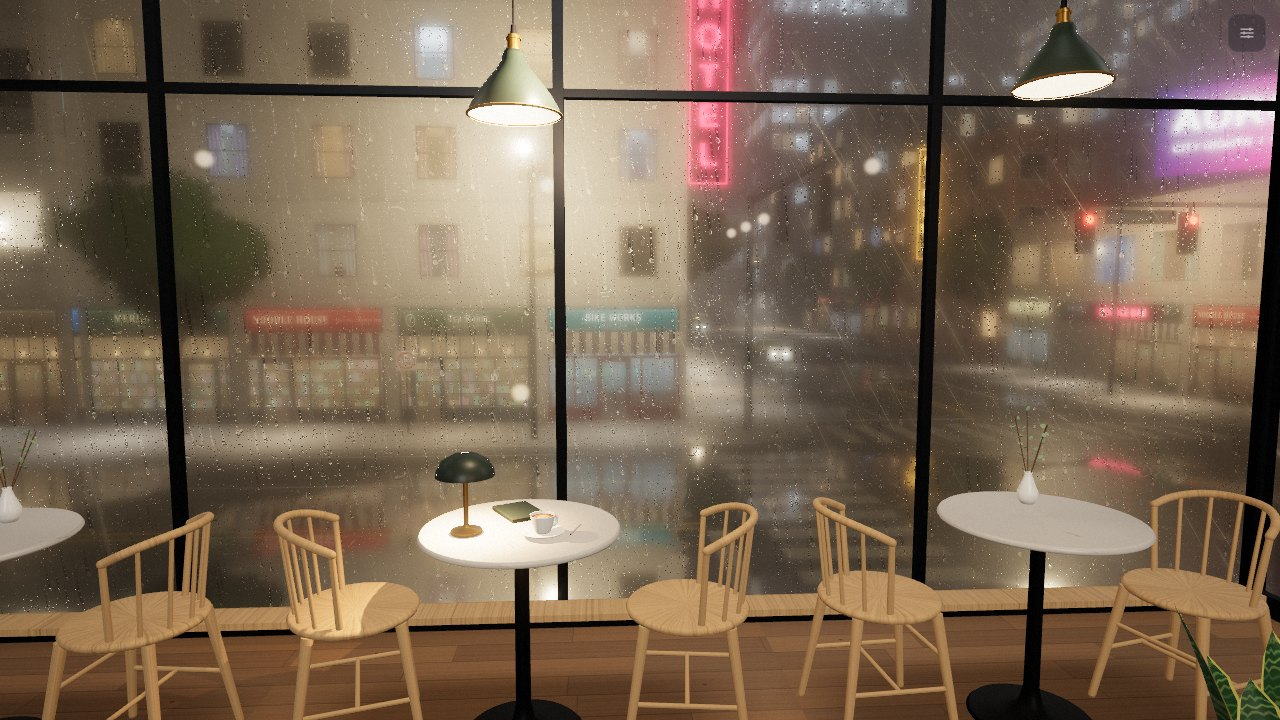
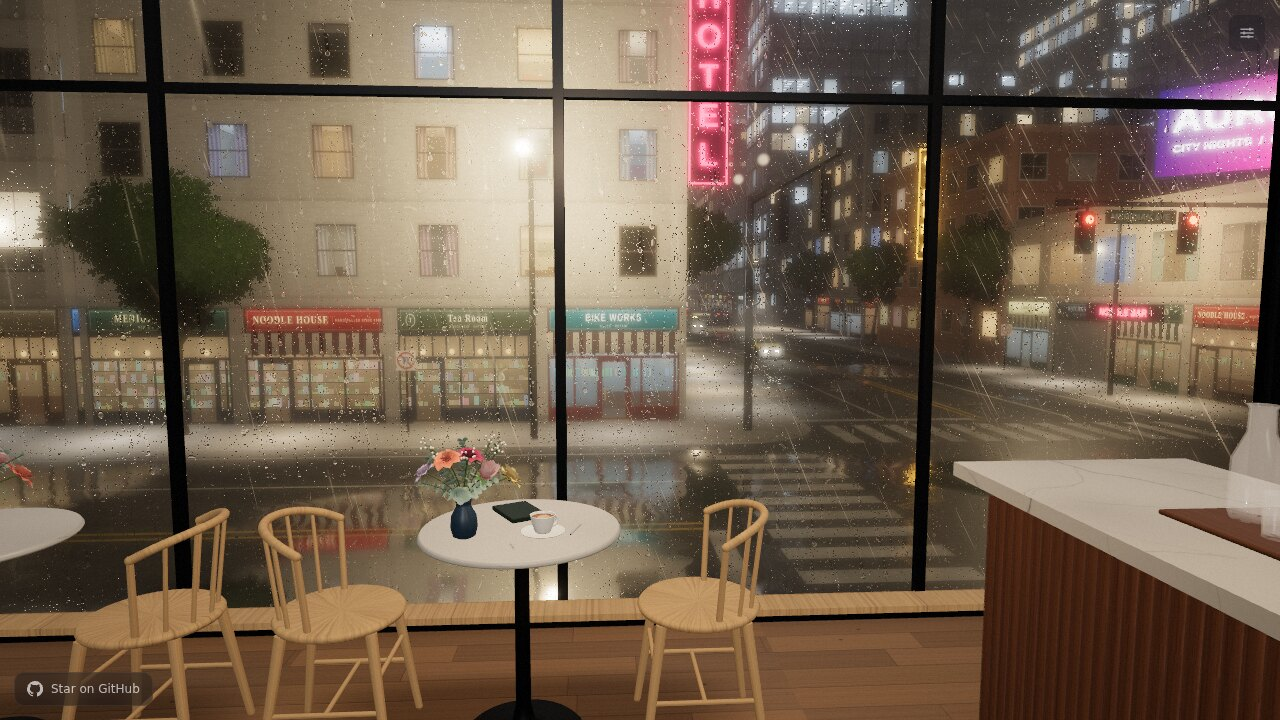
Retake the README screenshots with the current cafe, add an interior shot

diff --git a/README.md b/README.md
@@ -16,6 +16,10 @@
 | ![雨夜](docs/images/rain-night.jpg) 大雨夜晚 | ![大雪](docs/images/snow.jpg) 大雪 |
 | ![雾](docs/images/fog.jpg) 晨雾 | ![深夜](docs/images/midnight.jpg) 打烊后的雪夜 |
 
+![咖啡厅](docs/images/cafe.jpg)
+
+二楼的咖啡厅本身也可以走动和环顾：进门就是带点单区的吧台，跌级吊顶里藏着暖光灯带和射灯。
+
 ## 功能
 
 - **10 种天气**：晴、多云、阴、小雨、中雨、大雨、小雪、大雪、雷暴、雾，每种都可调强度和风力
